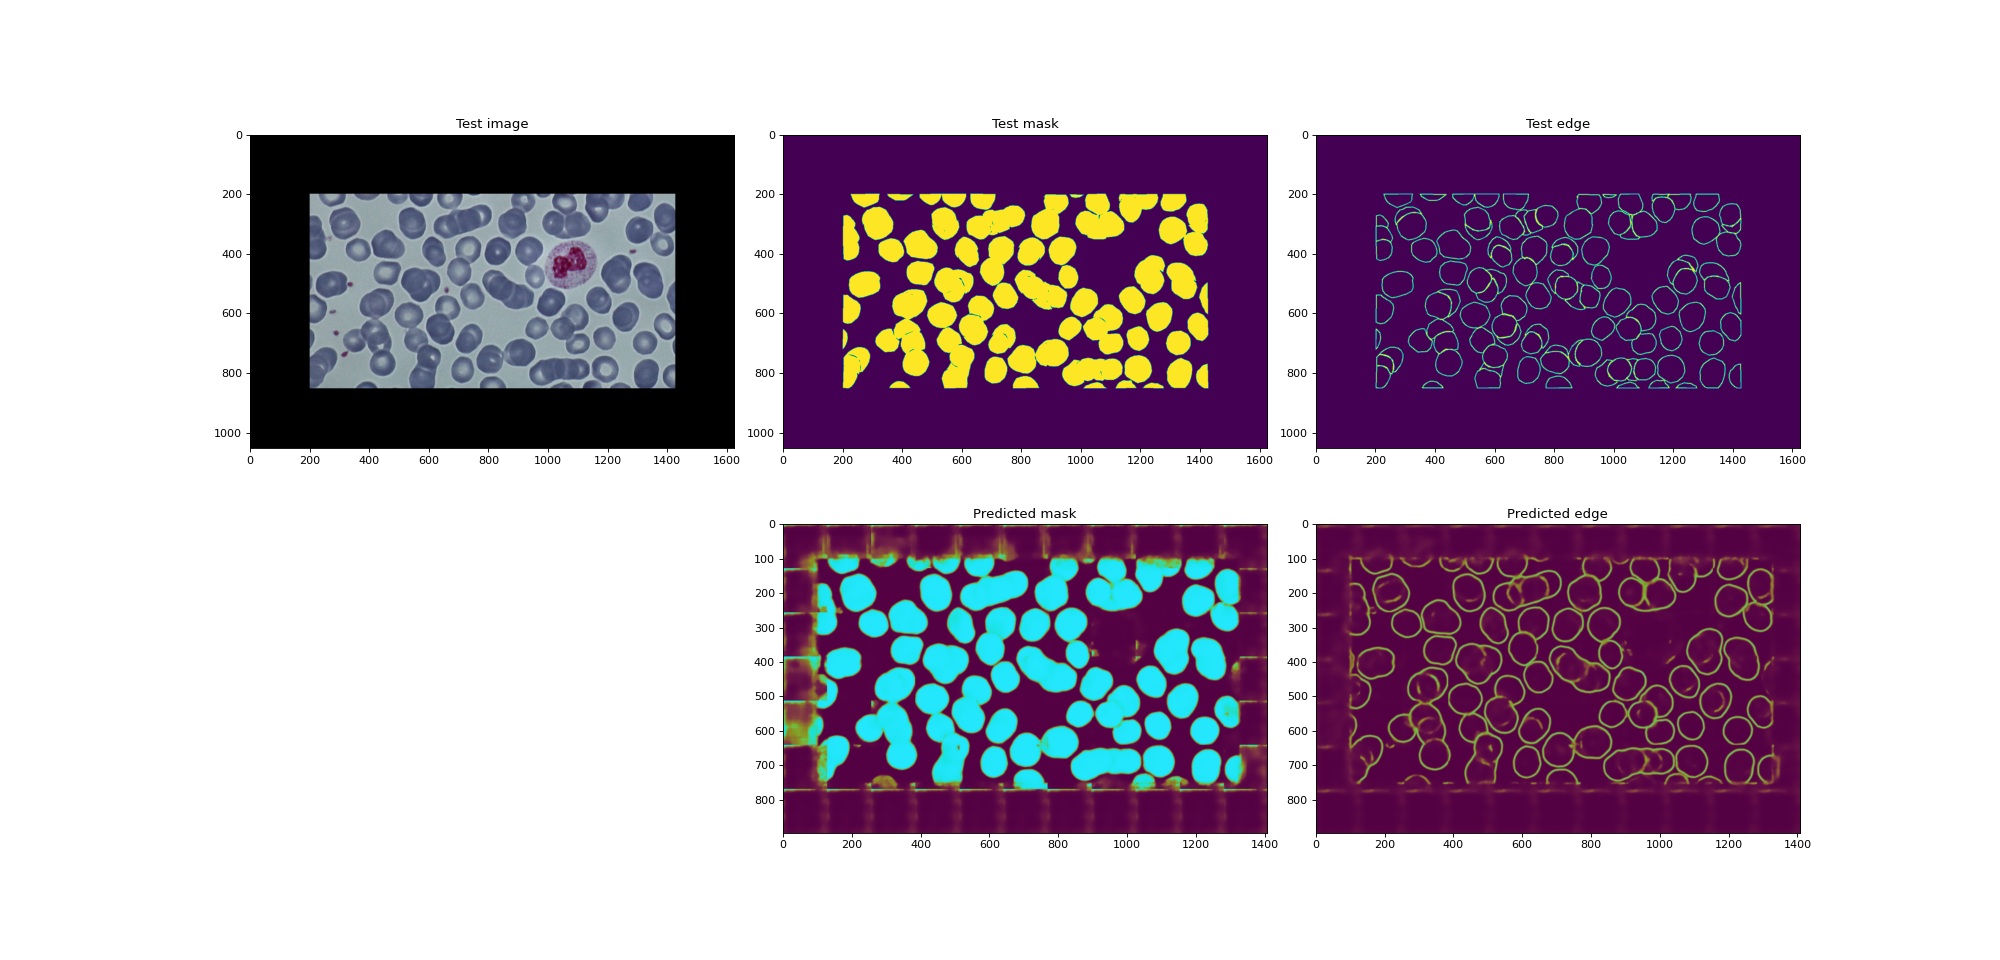
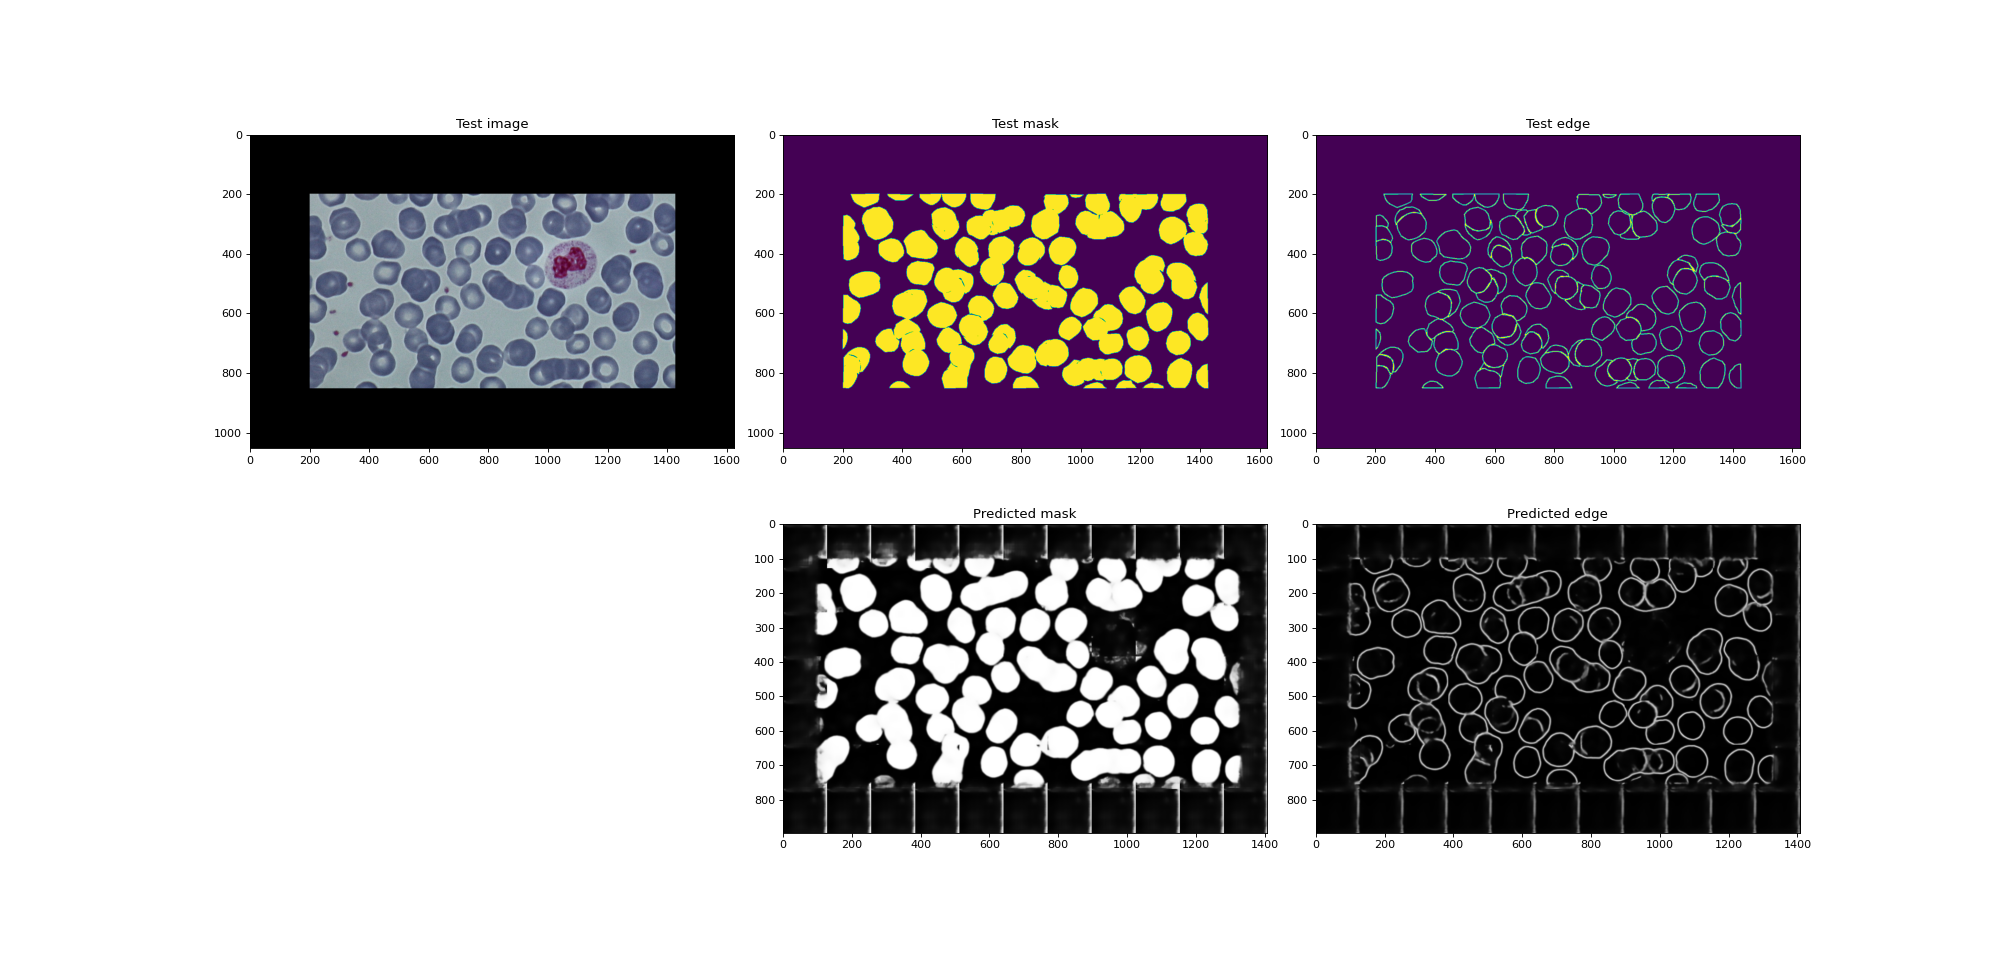
Added distance transform!

Changed region(s): [[0.372, 0.5312, 0.899, 0.875]]

diff --git a/src/run.py b/src/run.py
@@ -155,9 +155,9 @@ def predict(img='Im037_0.jpg',
     new_edge = concat(new_edge_chips)
 
     # save predicted mask and edge
-    plt.imsave('output/mask.png', new_mask)
-    plt.imsave('output/edge.png', new_edge)
-    plt.imsave('output/edge-mask.png', new_mask - new_edge)
+    plt.imsave('output/mask.png', new_mask, cmap='gray')
+    plt.imsave('output/edge.png', new_edge, cmap='gray')
+    plt.imsave('output/edge-mask.png', new_mask - new_edge, cmap='gray')
 
     # denoise all the output images
     new_mask = denoise('output/mask.png')
@@ -165,9 +165,9 @@ def predict(img='Im037_0.jpg',
     edge_mask = denoise('output/edge-mask.png')
 
     # save predicted mask and edge after denoising
-    plt.imsave('output/mask.png', new_mask)
-    plt.imsave('output/edge.png', new_edge)
-    plt.imsave('output/edge-mask.png', edge_mask)
+    plt.imsave('output/mask.png', new_mask, cmap='gray')
+    plt.imsave('output/edge.png', new_edge, cmap='gray')
+    plt.imsave('output/edge-mask.png', edge_mask, cmap='gray')
 
     # organize results into one figure
     fig = plt.figure(figsize=(25, 12), dpi=80)
@@ -235,7 +235,7 @@ def threshold(img='edge.png'):
     otsu_threshold, image = cv2.threshold(image, 0, 255, cv2.THRESH_BINARY + cv2.THRESH_OTSU,)
 
     # save the resulting thresholded image
-    plt.imsave(f'output/threshold_{img}', image)
+    plt.imsave(f'output/threshold_{img}', image, cmap='gray')
 
 
 # count how many cells from the predicted edges
@@ -263,7 +263,8 @@ def hough_transform(img='edge.png'):
             cv2.circle(output, (x, y), r, (0, 255, 0), 4)
             cv2.rectangle(output, (x - 5, y - 5), (x + 5, y + 5), (0, 128, 255), -1)
         # save the output image
-        plt.imsave('output/hough_transform.png', np.hstack([img, output]))
+        plt.imsave('output/hough_transform.png',
+                   np.hstack([img, output]))
 
     # show the hough_transform results
     print('Hough transform:')
@@ -298,7 +299,8 @@ def component_labeling(img='edge.png'):
     output[label_hue==0] = 0
     
     # saving image after Component Labeling
-    plt.imsave('output/component_labeling.png', np.hstack([image, output]))
+    plt.imsave('output/component_labeling.png',
+               np.hstack([image, output]))
 
     # show number of labels detected
     print('Connected component labeling:')
@@ -306,13 +308,39 @@ def component_labeling(img='edge.png'):
     print(f'Predicted count: {num_labels}')
 
 
+# get a minimal of each cell to help with the counting
+def distance_transform(img='edge.png'):
+    if not os.path.exists(f'output/{img}'):
+        print('Image does not exist!')
+        return
+
+    # getting the input image
+    image = cv2.imread(f'output/{img}')
+    # convert to numpy array
+    img = np.asarray(image)
+    # convert to grayscale
+    img = cv2.cvtColor(img, cv2.COLOR_BGR2GRAY)
+
+    # transorm rgb channels
+    b = cv2.distanceTransform(img, distanceType=cv2.DIST_L2, maskSize=5)
+    g = cv2.distanceTransform(img, distanceType=cv2.DIST_L1, maskSize=5)
+    r = cv2.distanceTransform(img, distanceType=cv2.DIST_C, maskSize=5)
+    
+    # merge the transformed channels back to an image
+    img = cv2.merge((b, g, r))
+
+    # saving image after Component Labeling
+    # plt.imsave('output/distance_transform.png', img, cmap='gray')
+
+
 # main program
 if __name__ == '__main__':
     # train('mse')
     # evaluate(model_name='mse')
-    predict(model_name='mse', img='Im037_0.jpg')
+    predict(model_name='mse')
     threshold(img='mask.png')
     threshold(img='edge.png')
     threshold(img='edge-mask.png')
+    distance_transform(img='edge.png')
     hough_transform(img='edge.png')
     component_labeling(img='edge-mask.png')
